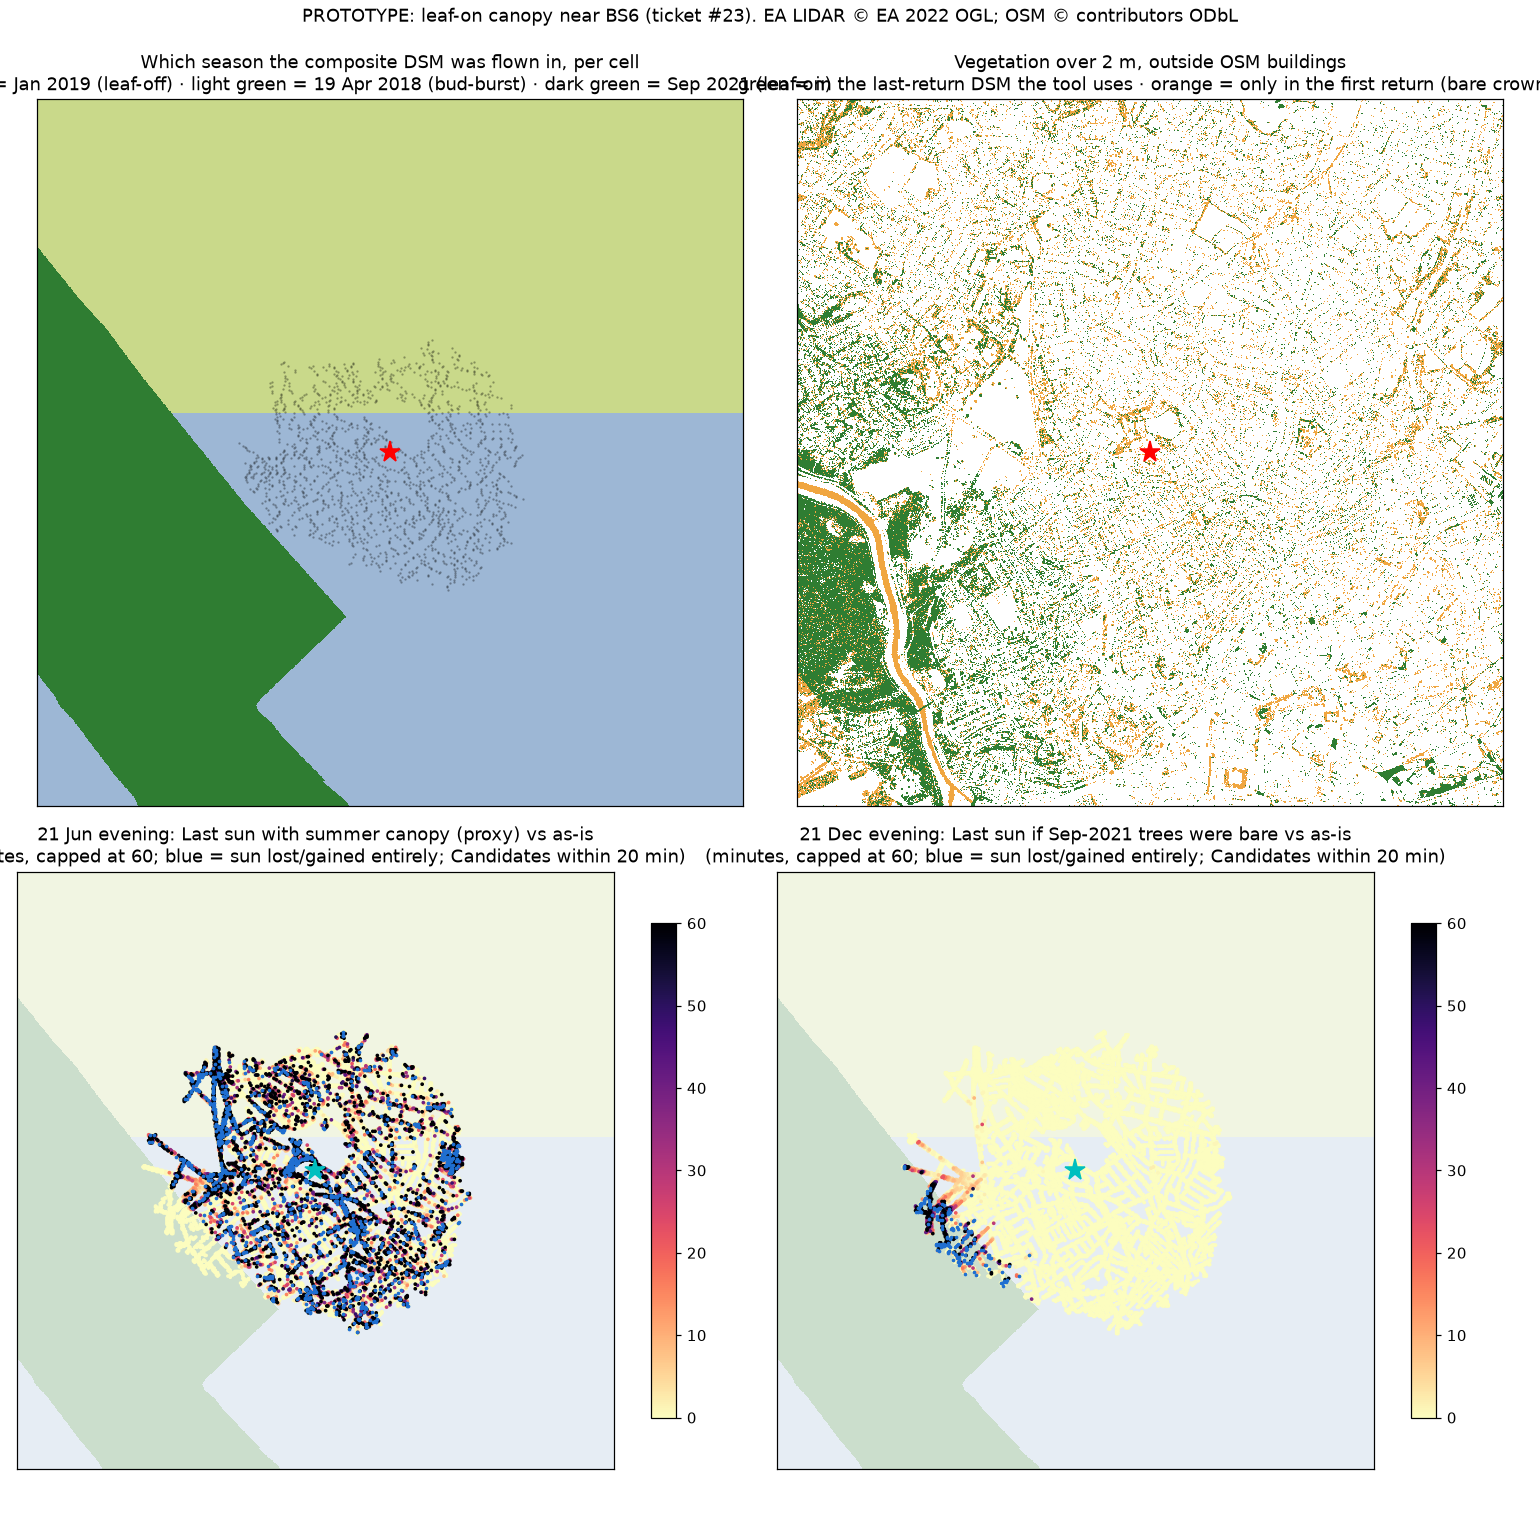
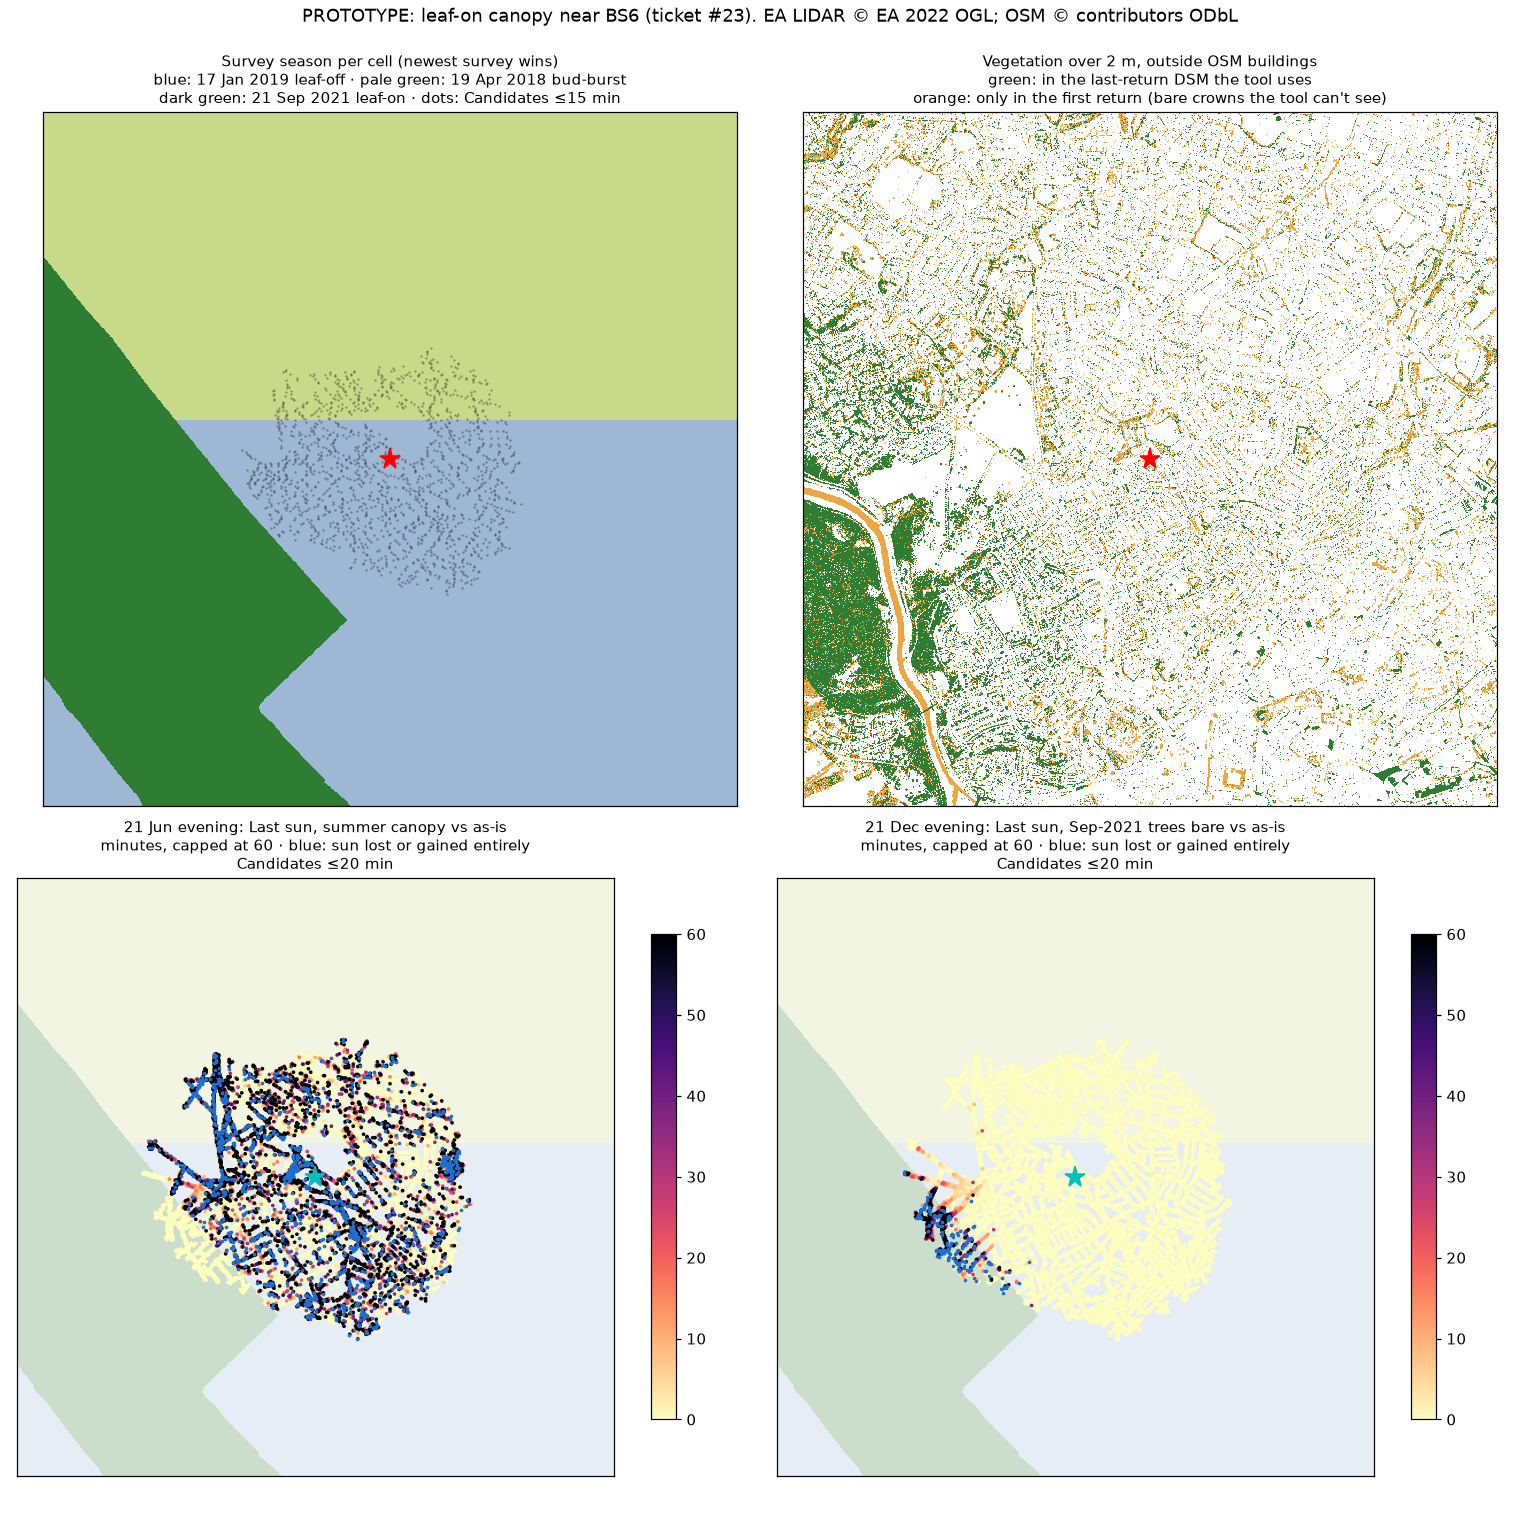
Prototype: frame winter as a bracket; crown retention per survey; under-crown Candidates (#23)
Claude-Session: https://claude.ai/code/session_01WY2dARqhboBZRG4mRbHu67

diff --git a/prototype/leaf-on-canopy/figure.py b/prototype/leaf-on-canopy/figure.py
@@ -33,8 +33,8 @@ fig, ax = plt.subplots(2, 2, figsize=(14, 14))
 a = ax[0, 0]
 cm = matplotlib.colors.ListedColormap(["#9db7d5", "#c9d98a", "#2f7d32"])
 a.imshow(season[::step, ::step], extent=ext, cmap=cm, vmin=0, vmax=2, interpolation="nearest")
-a.set_title("Which season the composite DSM was flown in, per cell\n"
-            "blue = Jan 2019 (leaf-off) · light green = 19 Apr 2018 (bud-burst) · dark green = Sep 2021 (leaf-on)")
+a.set_title("Survey season per cell (newest survey wins)\nblue: 17 Jan 2019 leaf-off · pale green: 19 Apr 2018 bud-burst\n"
+            "dark green: 21 Sep 2021 leaf-on · dots: Candidates ≤15 min", fontsize=10)
 reach = A.WALK <= 15
 a.scatter(A.X[reach][::5], A.Y[reach][::5], s=0.3, c="k", alpha=0.3)
 a.plot(hx, hy, "r*", ms=14)
@@ -46,12 +46,12 @@ img[vfz] = 1
 img[veg] = 2
 b.imshow(img[::step, ::step], extent=ext, cmap=matplotlib.colors.ListedColormap(["white", "#f0a640", "#2f7d32"]),
          interpolation="nearest")
-b.set_title("Vegetation over 2 m, outside OSM buildings\n"
-            "green = in the last-return DSM the tool uses · orange = only in the first return (bare crowns)")
+b.set_title("Vegetation over 2 m, outside OSM buildings\ngreen: in the last-return DSM the tool uses\n"
+            "orange: only in the first return (bare crowns the tool can't see)", fontsize=10)
 b.plot(hx, hy, "r*", ms=14)
 
-for k, (ds, win, title) in enumerate([("2027-06-21", "evening", "21 Jun evening: Last sun with summer canopy (proxy) vs as-is"),
-                                      ("2026-12-21", "evening", "21 Dec evening: Last sun if Sep-2021 trees were bare vs as-is")]):
+for k, (ds, win, title) in enumerate([("2027-06-21", "evening", "21 Jun evening: Last sun, summer canopy vs as-is"),
+                                      ("2026-12-21", "evening", "21 Dec evening: Last sun, Sep-2021 trees bare vs as-is")]):
     c = ax[1, k]
     sc = A.score(ds, win)
     s = "leafy" if k == 0 else "bare_on"
@@ -65,7 +65,7 @@ for k, (ds, win, title) in enumerate([("2027-06-21", "evening", "21 Jun evening:
     p = c.scatter(A.X[sel][o], A.Y[sel][o], c=np.clip(sh[sel][o], 0, 60), s=2, cmap="magma_r", vmin=0, vmax=60)
     c.scatter(A.X[sel & gone], A.Y[sel & gone], s=2, c="#1f6fd1")
     c.plot(hx, hy, "c*", ms=14)
-    c.set_title(title + "\n(minutes, capped at 60; blue = sun lost/gained entirely; Candidates within 20 min)")
+    c.set_title(title + "\nminutes, capped at 60 · blue: sun lost or gained entirely\nCandidates ≤20 min", fontsize=10)
     fig.colorbar(p, ax=c, shrink=0.7)
 for a in ax.ravel():
     a.set_xlim(hx - 2600, hx + 2600)

diff --git a/prototype/leaf-on-canopy/README.md b/prototype/leaf-on-canopy/README.md
@@ -11,8 +11,12 @@ The ticket assumed the EA 2022 composite DSM is mostly leaf-on, so it would show
 - **The composite keeps the newest survey per cell.** This was checked on ST5575, where the composite matches the 21 Sep 2021 per-survey tile on 92–100% of cells, and overwrites the 23 Jan 2019 survey where they overlap.
 - **Within the study box (home ± 4.8 km), 13% of cells are leaf-on** (flown 21 Sep 2021, a strip about 2–4 km west over the Avon gorge and Leigh Woods). The rest were flown on 17 Jan 2019 (the south half, home included) or 19 Apr 2018 (the north half, at bud-burst). Flight dates are in each tile's `*_Metadata.gpkg`, layer `lidar_used_in_merging_process`.
 - **A leaf-off last return passes through bare crowns.** The same trees were flown on 23 Jan 2019 and 21 Sep 2021 (3.2 km² overlap). Only 23% of leaf-on crown cells are still taller than 2 m in January, and their median height is 0.18 m in January against 12.3 m in September. 87% of them lose more than half their height.
+- **The same holds on the surveys that cover home.** The last-return DSM keeps only 32% (17 Jan 2019 NLP, 40 km²) and 36% (19 Apr 2018 NLP, 38 km²) of the cells the first return shows as vegetation, against 79% where the survey was leaf-on (21 Sep 2021). See `results/retention_under_crown.json`.
 
-So the tool's DSM already shows deciduous trees roughly as bare, which is about right in winter. **The error is in the leaf-on season, and it runs the other way: the as-is answers are too optimistic from about May to October.**
+So the tool's DSM mostly shows deciduous trees as **absent**: not as bare, and not as in leaf. Two consequences:
+
+- **Leaf-on season (about May to October):** the as-is answers are too optimistic, and by a lot. This is the main finding.
+- **Winter:** the as-is answer is the **optimistic end of a bracket**, not the truth. Low sun through bare branches is partly blocked and dappled, and the DSM shows no branches at all.
 
 ## Surfaces compared
 
@@ -31,11 +35,20 @@ Vegetation means DSM − DTM over 2 m, outside OSM building footprints buffered 
 
 "Shift" is how many minutes the as-is answer is off, in the expected direction: first sun in the morning, Last sun in the evening. It is measured over reachable open spots with sun under both surfaces.
 
-**Winter correction actually needed (`bare_on`, Nov–Mar):**
+**Winter, part 1: the leaf-on strip (`bare_on`, Nov–Mar). Negligible.**
 - Morning: **0 min**, on every date.
 - Evening: mean 0.1–0.3 min; 1–2% of spots shift by 5 min or more.
 - No openness changes; top-5 leave-by within 0–2 min.
 - At 20 min max walk the leaf-on strip comes into reach: on 21 Dec evening the mean is 2.8 min, 7% of spots shift by 5 min or more, about 100 spots cross 0.75 openness, and top-5 leave-by moves within 1 min.
+
+**Winter, part 2: bare branches. Bracketed, not measured.** The as-is answer treats bare crowns as fully open. The `leafy` surface on winter dates treats them as fully opaque. The truth lies between, depending on how much direct sun a bare deciduous crown lets through. This prototype doesn't measure that, and it is the open input for the canopy decision.
+
+| date | window | as-is ↔ opaque-branches: mean / p90 shift | spots ≥5 min off | top-5 leave-by off (min) |
+|---|---|---|---|---|
+| 21 Dec | morning | 9 / 32 | 33% | 0, 5, 2, 0, – |
+| 21 Dec | evening | 13 / 47 | 31% | 1, –, –, 27, 56 |
+| 5 Feb | evening | 18 / 68 | 35% | 0, –, 14, 11, 3 |
+| 20 Mar | morning | 14 / 55 | 29% | 102, 12, 32, 99, – |
 
 **Summer error (`leafy`, leaf-on season), the as-is answer being optimistic:**
 
@@ -54,6 +67,10 @@ About a quarter of the spots the tool calls open are tree-enclosed in leaf, and 
 
 `bare_all` (an upper bound for anything tree-shaped) shifts open spots by a mean of 4–14 min. It leaves the top-5 leave-by unchanged, because top spots are already open. About 600–900 points would cross 0.75 openness. This is the evergreen and hedge component, not a seasonal one.
 
+## Candidates under a crown
+
+12.5% of reachable Candidates within 15 min (1,104 of 8,847; 11% within 20 min) stand where the first return shows a crown over 2 m. The open-ground filter (last-return DSM − DTM ≤ 1 m) passes them because the last return sees through bare branches. In leaf, the tool would send people to stand under a tree. Much of the blue "sun lost" scatter on the 21 Jun map is this. **Filtering Candidates on the first return**, not only casting profiles against it, is a second lever for the canopy decision.
+
 ## Vegetation masks (the ticket's second bullet)
 
 | mask | how | verdict |
@@ -67,7 +84,9 @@ Known artefact: tidal water (the Avon) shows as first-return "vegetation". A wat
 
 ## What this means for [Leaf-on canopy: correct it, caveat it, or ignore it?](https://github.com/epabarker/daylight-viewing/issues/24)
 
-- "Correct" now means **adding** canopy for the leaf-on season (or picking per season), not making trees transparent in winter. Winter needs a correction only where the survey was leaf-on, which in Bristol is a strip at the west edge of a 20 min walk.
+- "Correct" now means **adding** canopy for the leaf-on season (or picking per season), not making trees transparent in winter. Removing leaf-on canopy in winter matters only where the survey was leaf-on, which in Bristol is a strip at the west edge of a 20 min walk.
+- **Open input:** how opaque bare deciduous crowns are to low direct sun. The winter answer sits between as-is (fully open) and opaque branches. The gap is up to tens of minutes at some top-5 spots.
+- **Second lever:** drop Candidates under a first-return crown, at least for the leaf-on season.
 - Survey season is free per cell from the tile metadata, so a build can tell which cells need which treatment.
 - A seasonal correction implies a second profile set (or a per-cell seasonal delta) in the tiles, and the first-return product as a new build input for [Data refresh: what triggers a new data build, and how is it cut and shipped?](https://github.com/epabarker/daylight-viewing/issues/19).
 - Stage 2+ caveat: the leaf-on/leaf-off mix is a Bristol fact. Other areas will have other survey seasons.
